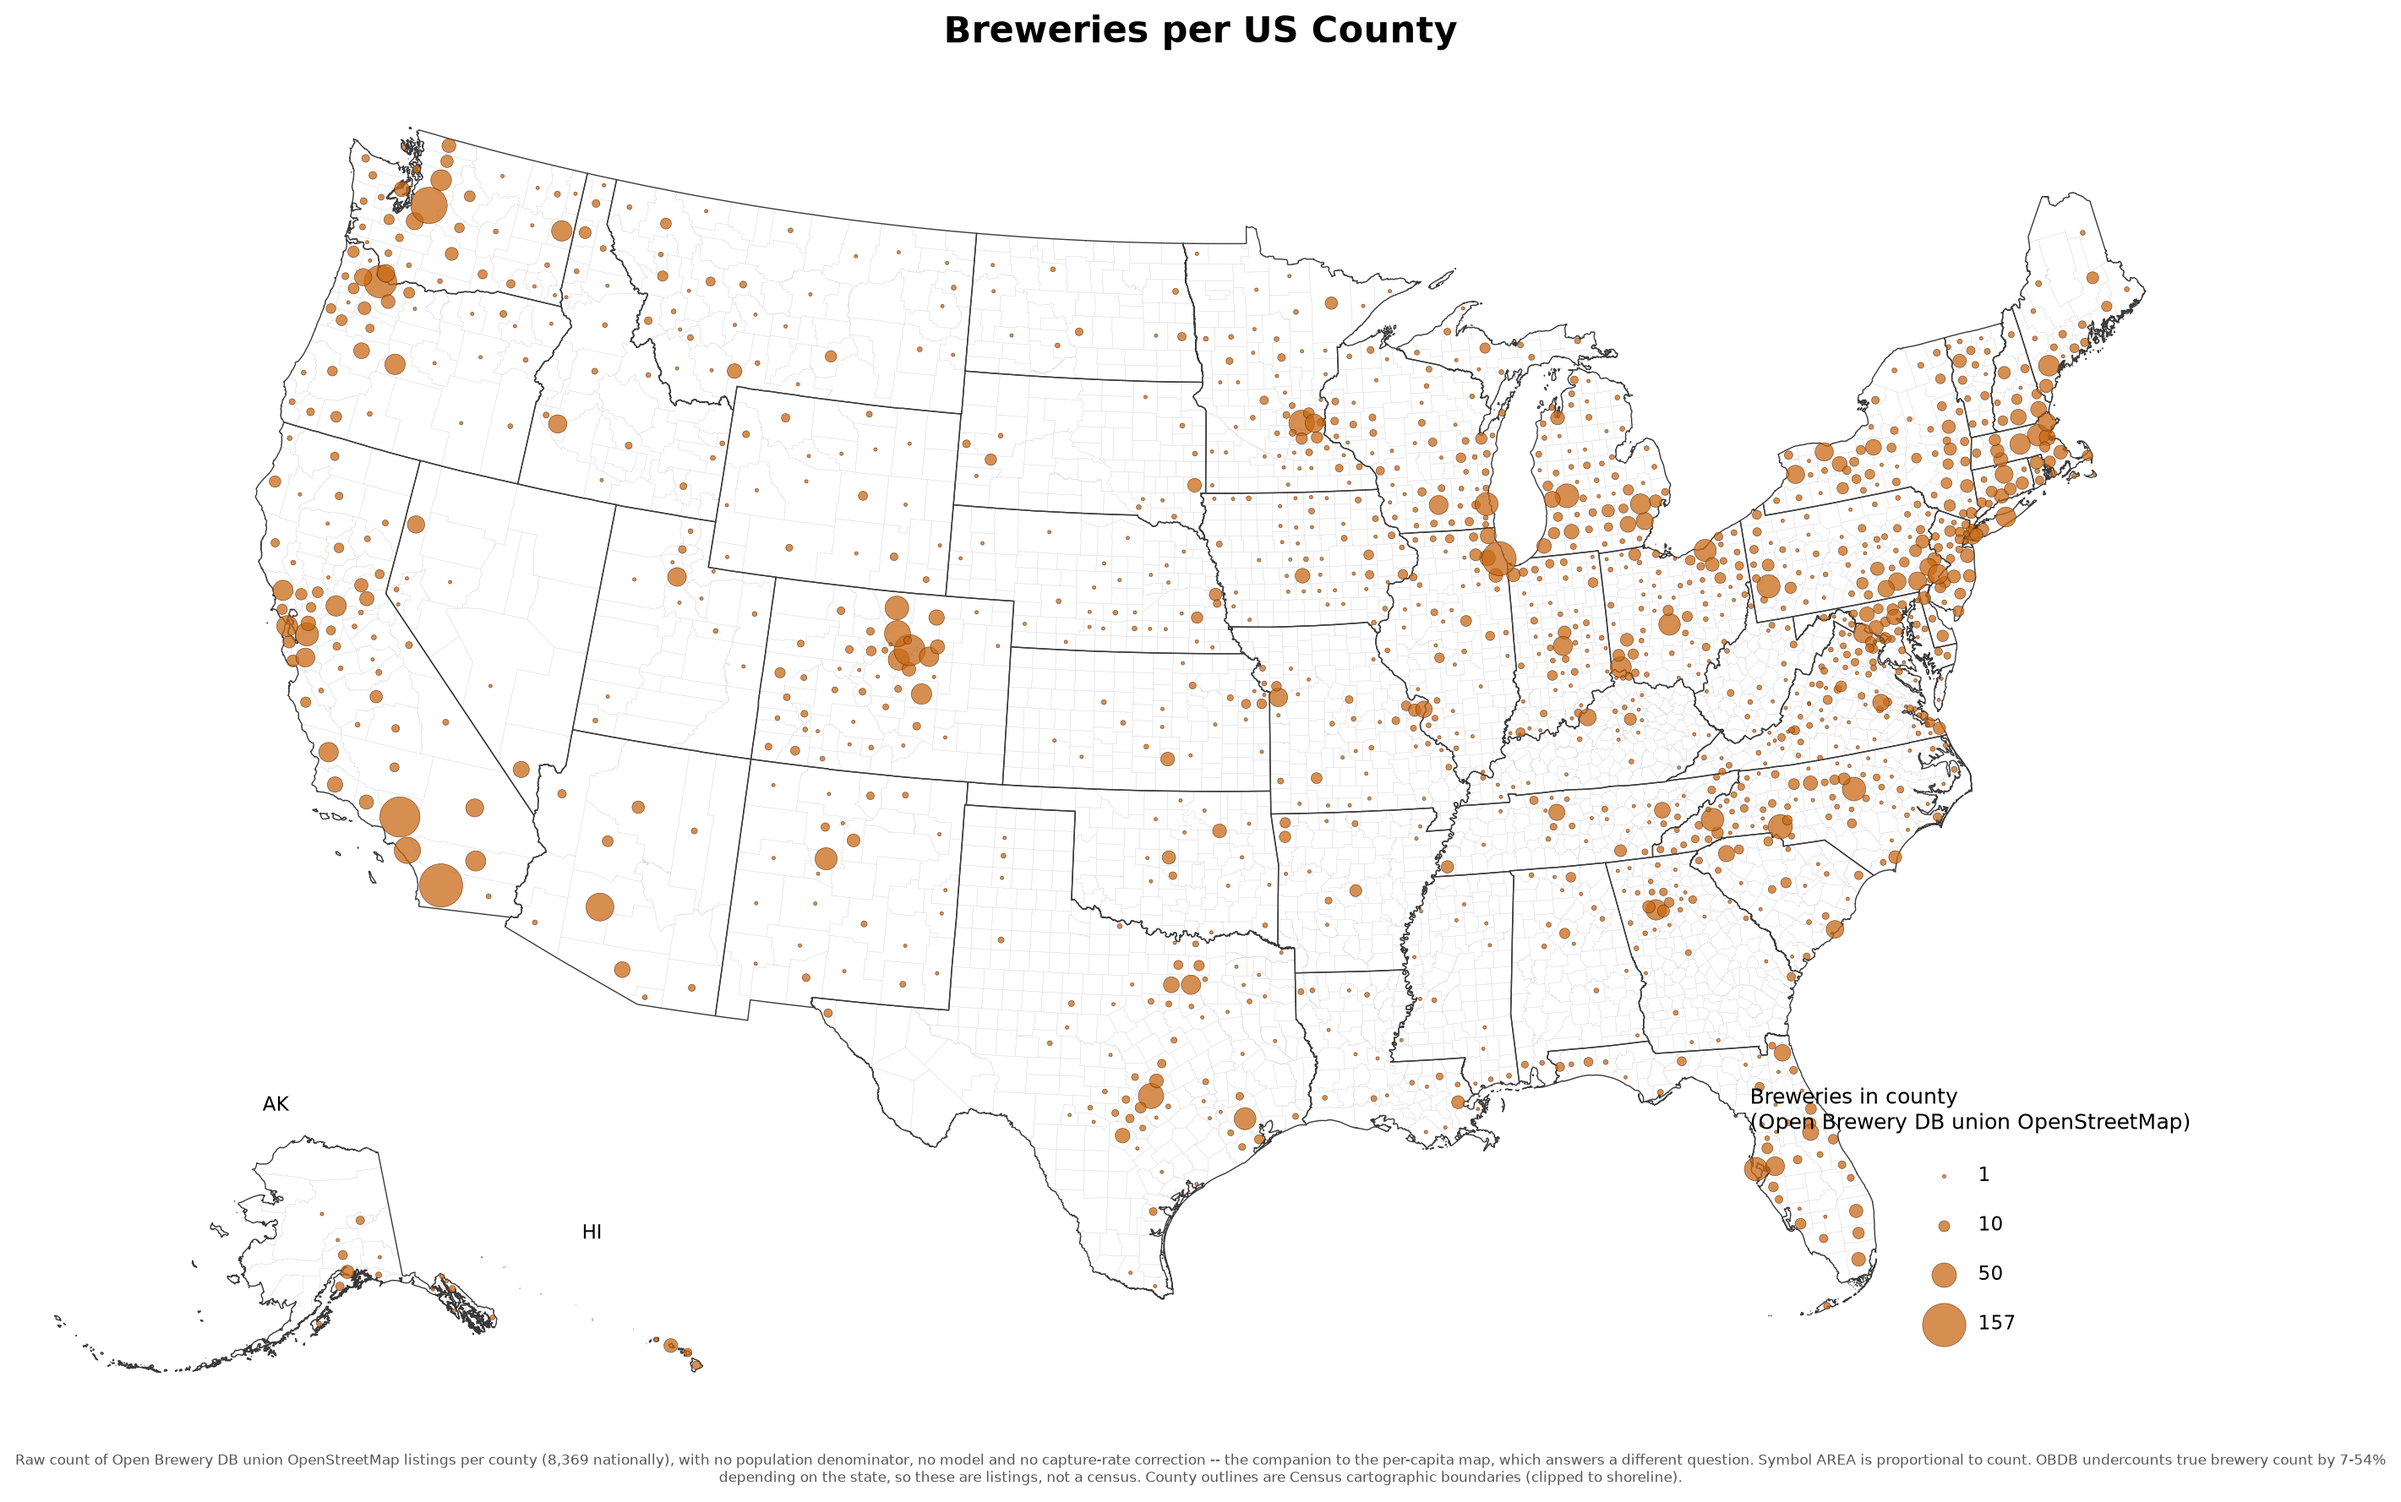
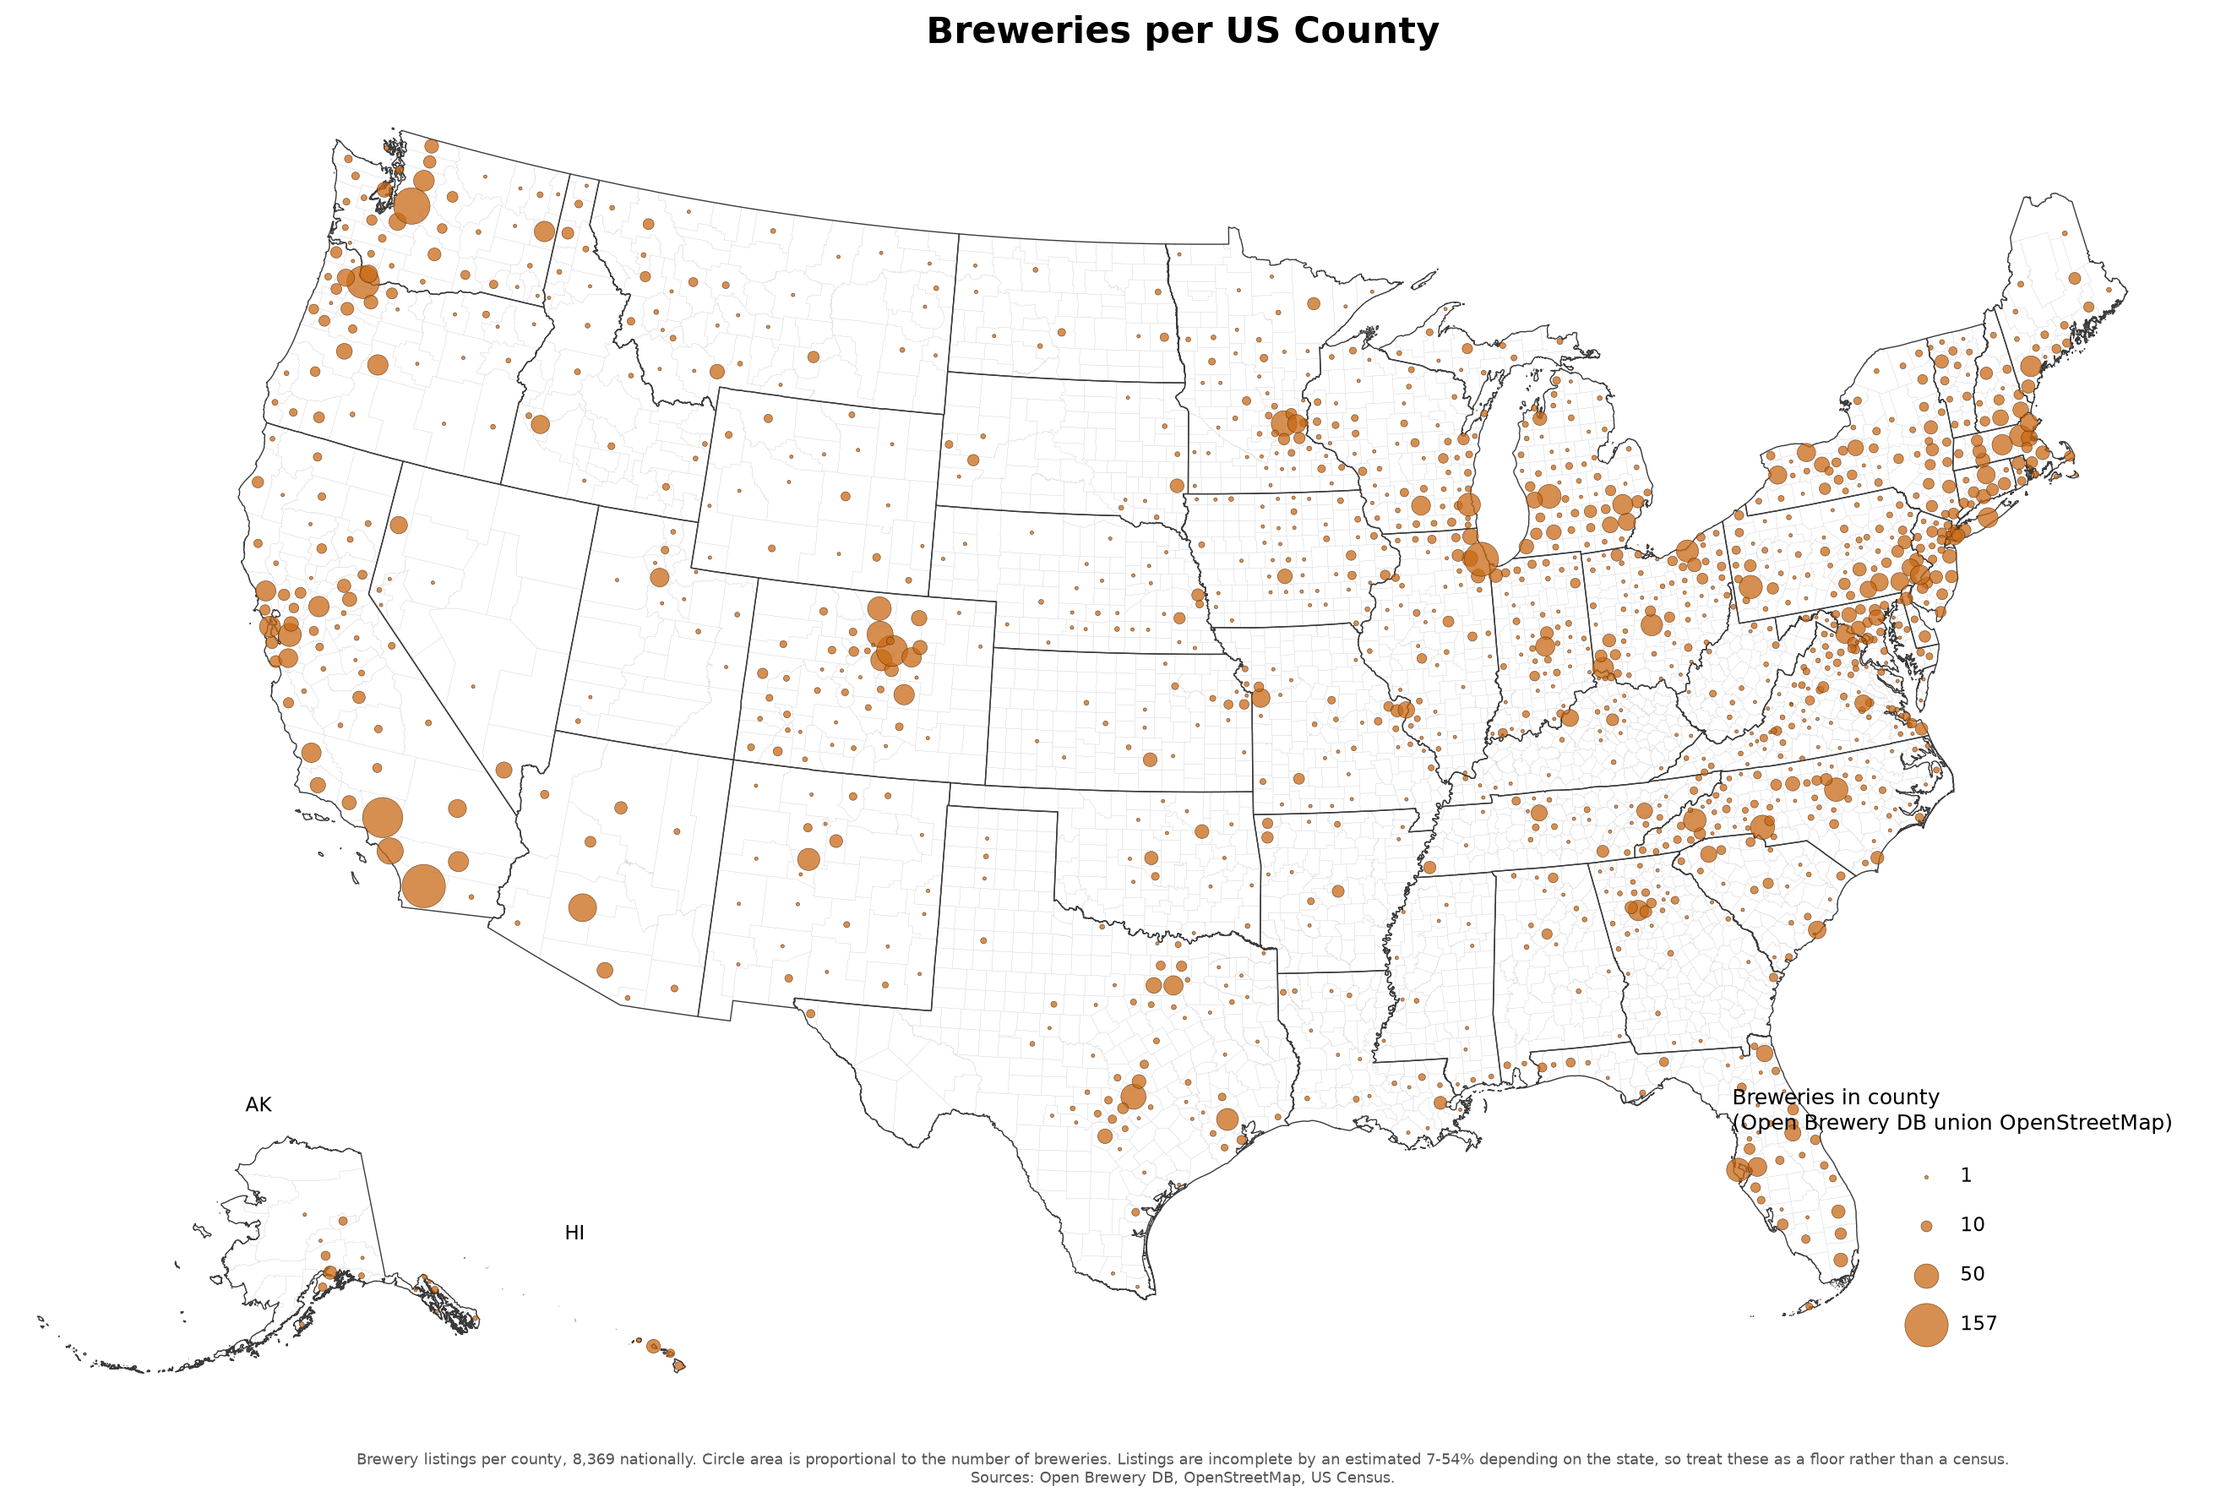
Rewrite map captions for a general reader
The captions had the same problem the titles did: written for someone who had
already had the argument. The count choropleth's ran to four lines and opened
with "READ WITH CARE", then explained area bias, the 55%-zero share, boundary
provenance and the capture-rate gap. Nobody finishes that.

Each caption now carries what a reader needs to read the map correctly, and
nothing else: what the data is, the one caveat that changes the reading, and
the sources. Roughly 450-650 characters down to ~250.

  count (symbols)  circle area is proportional to count; listings incomplete
  count (fill)     larger counties draw the eye more at the same count
  rate             fainter where the rate rests on few breweries
  modelled         rates are model estimates and differ from raw counts

Also plain-language now:
- subtitles, which described the specification ("covariates + state fixed
  effects + a BYM2 spatial random effect") rather than the map
- the Alaska/Hawaii footnote, which said those counties "fall back to the
  flat-mean shrinkage model, not the spatial model" -- accurate about the cause
  and useless to a reader, who needs to know only that those estimates are
  calculated differently and less reliable
- the AK inset title, "AK - no spatial model*" -> "AK*"

The detail removed is not lost: area bias, the count/rate confound, the model
specification and its validation are in README.md and docs/methods_memo.md,
which is where a reader who wants them will look.
[…]

diff --git a/scripts/build_choropleth.py b/scripts/build_choropleth.py
@@ -359,17 +359,15 @@ def build_map(gdf: gpd.GeoDataFrame, out_path: str, floor: int | None,
     draw(ax, conus)
 
     title = title_prefix
-    subtitle = ("Combined model: covariates + state fixed effects + a BYM2 spatial random effect, "
-                "per 100,000 adults 21+")
+    subtitle = "Model-estimated breweries per 100,000 adults aged 21 and over"
     if floor is not None:
         title += " (population-floored)"
-        subtitle = (f"Counties under {floor:,} adults 21+ shown hatched, not coloured; covariate "
-                    "and spatial smoothing reduce but don't eliminate small-county noise")
+        subtitle = (f"Counties with fewer than {floor:,} adults aged 21+ are hatched rather than "
+                    "coloured, because their rates are too uncertain to map")
     elif encode_uncertainty:
         title += " (faded where uncertain)"
-        subtitle = ("Combined model, per 100,000 adults 21+. Colour fades toward white as the "
-                    "model's own 95% interval widens, so counties the data can't pin down "
-                    "wash out rather than being hidden or shown at full confidence")
+        subtitle = ("Model-estimated breweries per 100,000 adults aged 21 and over. Counties are "
+                    "shown fainter where the estimate is more uncertain")
     ax.set_title(title, fontsize=17, fontweight="bold", pad=12)
 
     # AK/HI carry Model A's flat-mean shrunken rate, NOT the BYM2 model the
@@ -381,7 +379,7 @@ def build_map(gdf: gpd.GeoDataFrame, out_path: str, floor: int | None,
 
     ax_ak = fig.add_axes((0.02, 0.05, 0.20, 0.22))
     draw(ax_ak, alaska)
-    ax_ak.set_title("AK" + (" — no spatial model*" if ak_fallback else ""), fontsize=9)
+    ax_ak.set_title("AK" + ("*" if ak_fallback else ""), fontsize=9)
 
     ax_hi = fig.add_axes((0.20, 0.05, 0.10, 0.14))
     draw(ax_hi, hawaii)
@@ -436,19 +434,24 @@ def build_map(gdf: gpd.GeoDataFrame, out_path: str, floor: int | None,
                            reserved_boxes=reserved_after_anchors)
     print(f"  Labels placed: {n_anchors} anchors + {n_auto} auto (of {len(auto_candidates)} candidates)")
 
-    footnote = ("  *AK/HI counties have no contiguous neighbours, so they fall back to the "
-                "flat-mean shrinkage model, not the spatial model used for the rest of the map. "
+    # Plain-language footnote. The previous wording ("fall back to the
+    # flat-mean shrinkage model, not the spatial model") described the cause
+    # accurately and told a general reader nothing they could act on. What
+    # matters to them is that these estimates are not comparable with the rest.
+    footnote = ("  *Alaska and Hawaii have no neighbouring counties on the mainland, so their "
+                "estimates are calculated differently and are less reliable. "
                 if (ak_fallback or hi_fallback) else "")
+    # Same principle as the count/rate captions: the one thing a reader needs
+    # in order to read the map correctly, plus sources. The model
+    # specification, its validation and its known biases are in
+    # docs/methods_memo.md, not squeezed into a footer nobody finishes.
     caption = subtitle + ". " + footnote + (source_note or
-              "Sources: Open Brewery DB, Census ACS 5-year (2020-2024). County rate is the "
-              "project's adopted headline model: income, age, college share, tourism, "
-              "population density, population growth, unemployment, and rent covariates plus "
-              "state fixed effects and a BYM2 spatial random effect (neighbouring counties "
-              "inform each other's estimate), validated by held-out log-likelihood against "
-              "simpler alternatives. County outlines are Census cartographic boundaries "
-              "(clipped to shoreline). OBDB undercounts true brewery count by 7-54% depending "
-              "on the state; this map is uncorrected for that gap.")
-    fig.text(0.5, 0.01, caption, ha="center", fontsize=6.8, color="#555555", wrap=True)
+              "Rates are model estimates, adjusted for population, income, age, education, "
+              "tourism and neighbouring counties, so they differ from a county's raw brewery "
+              "count. Listings are incomplete by an estimated 7-54% depending on the state and "
+              "this map is not corrected for that.\n"
+              "Sources: Open Brewery DB, US Census ACS 2020-2024.")
+    fig.text(0.5, 0.01, caption, ha="center", fontsize=7.2, color="#555555", wrap=True)
 
     fig.savefig(out_path, dpi=180, bbox_inches="tight", facecolor=PAGE_COLOR)
     plt.close(fig)
@@ -581,14 +584,18 @@ def build_count_map(gdf: gpd.GeoDataFrame, out_path: str) -> None:
                borderpad=1.0, frameon=False, fontsize=9, title_fontsize=10, scatterpoints=1)
 
     total = int(gdf[count_col].sum())
+    # Captions are written for a general reader: what the data is, the one
+    # caveat that changes how you should read it, and the sources. Everything
+    # else -- area bias, zero-county share, boundary provenance, why there is
+    # no model -- lives in the README and docs/methods_memo.md. An earlier
+    # version ran to four lines opening with "READ WITH CARE", which is a
+    # caption written for someone who has already had the argument.
     fig.text(0.5, 0.01,
-              f"Raw count of {source_note} listings per county ({total:,} nationally), with no "
-              "population denominator, no model and no capture-rate correction -- the companion to "
-              "the per-capita map, which answers a different question. Symbol AREA is proportional "
-              "to count. OBDB undercounts true brewery count by 7-54% depending on the state, so "
-              "these are listings, not a census. County outlines are Census cartographic "
-              "boundaries (clipped to shoreline).",
-              ha="center", fontsize=6.8, color="#555555", wrap=True)
+              f"Brewery listings per county, {total:,} nationally. Circle area is proportional to "
+              "the number of breweries. Listings are incomplete by an estimated 7-54% depending on "
+              "the state, so treat these as a floor rather than a census.\n"
+              "Sources: Open Brewery DB, OpenStreetMap, US Census.",
+              ha="center", fontsize=7.2, color="#555555", wrap=True)
 
     fig.savefig(out_path, dpi=180, bbox_inches="tight", facecolor=PAGE_COLOR)
     plt.close(fig)
@@ -700,16 +707,11 @@ def build_count_choropleth(gdf: gpd.GeoDataFrame, out_path: str) -> None:
 
     total = int(pd.concat([conus["_value"], alaska["_value"], hawaii["_value"]]).sum())
     fig.text(0.5, 0.01,
-              f"Raw count of {source_note} listings per county "
-              f"({total:,} nationally), with no population denominator, no model and no "
-              "capture-rate correction. READ WITH CARE: a filled county is read as "
-              "density-by-area, so a large rural county with a few breweries draws more ink "
-              "than a small dense one with many -- the proportional-symbol version "
-              "(us_brewery_count_map.png) avoids that and is the safer read for comparing "
-              "places. 55% of counties have no listed brewery and are shown near-white. "
-              "OBDB undercounts by 7-54% by state; these are listings, not a census. "
-              "Outlines are Census cartographic boundaries (clipped to shoreline).",
-              ha="center", fontsize=6.8, color="#555555", wrap=True)
+              f"Brewery listings per county, {total:,} nationally. Larger counties cover more "
+              "area, so they draw the eye more than small dense ones with the same count. "
+              "Listings are incomplete by an estimated 7-54% depending on the state.\n"
+              "Sources: Open Brewery DB, OpenStreetMap, US Census.",
+              ha="center", fontsize=7.2, color="#555555", wrap=True)
 
     fig.savefig(out_path, dpi=180, bbox_inches="tight", facecolor=PAGE_COLOR)
     plt.close(fig)
@@ -821,15 +823,12 @@ def build_rate_choropleth(gdf: gpd.GeoDataFrame, out_path: str) -> None:
 
     total = int(pd.concat([conus["_count"], alaska["_count"], hawaii["_count"]]).sum())
     fig.text(0.5, 0.01,
-              f"{source_note} listings ({total:,} nationally) divided by ACS 2020-2024 adults "
-              "21+, with NO model and no capture-rate correction. Colour fades toward white as "
-              "the Poisson relative standard error of the county's own count grows (one brewery "
-              "= 100% RSE), so a single brewery in a small county cannot read as a hotspot. "
-              "Labels are restricted to counties with at least 5 breweries. This asks a "
-              "different question from the count map: population explains about half the "
-              "variance in raw counts, and the two top-10 lists share only one county. "
-              "OBDB undercounts by 7-54% by state. Outlines are Census cartographic boundaries.",
-              ha="center", fontsize=6.8, color="#555555", wrap=True)
+              f"Brewery listings ({total:,} nationally) per 100,000 adults aged 21 and over. "
+              "Counties are shown fainter where the rate rests on only a handful of breweries "
+              "and is correspondingly uncertain. Listings are incomplete by an estimated 7-54% "
+              "depending on the state.\n"
+              "Sources: Open Brewery DB, OpenStreetMap, US Census ACS 2020-2024.",
+              ha="center", fontsize=7.2, color="#555555", wrap=True)
 
     fig.savefig(out_path, dpi=180, bbox_inches="tight", facecolor=PAGE_COLOR)
     plt.close(fig)
